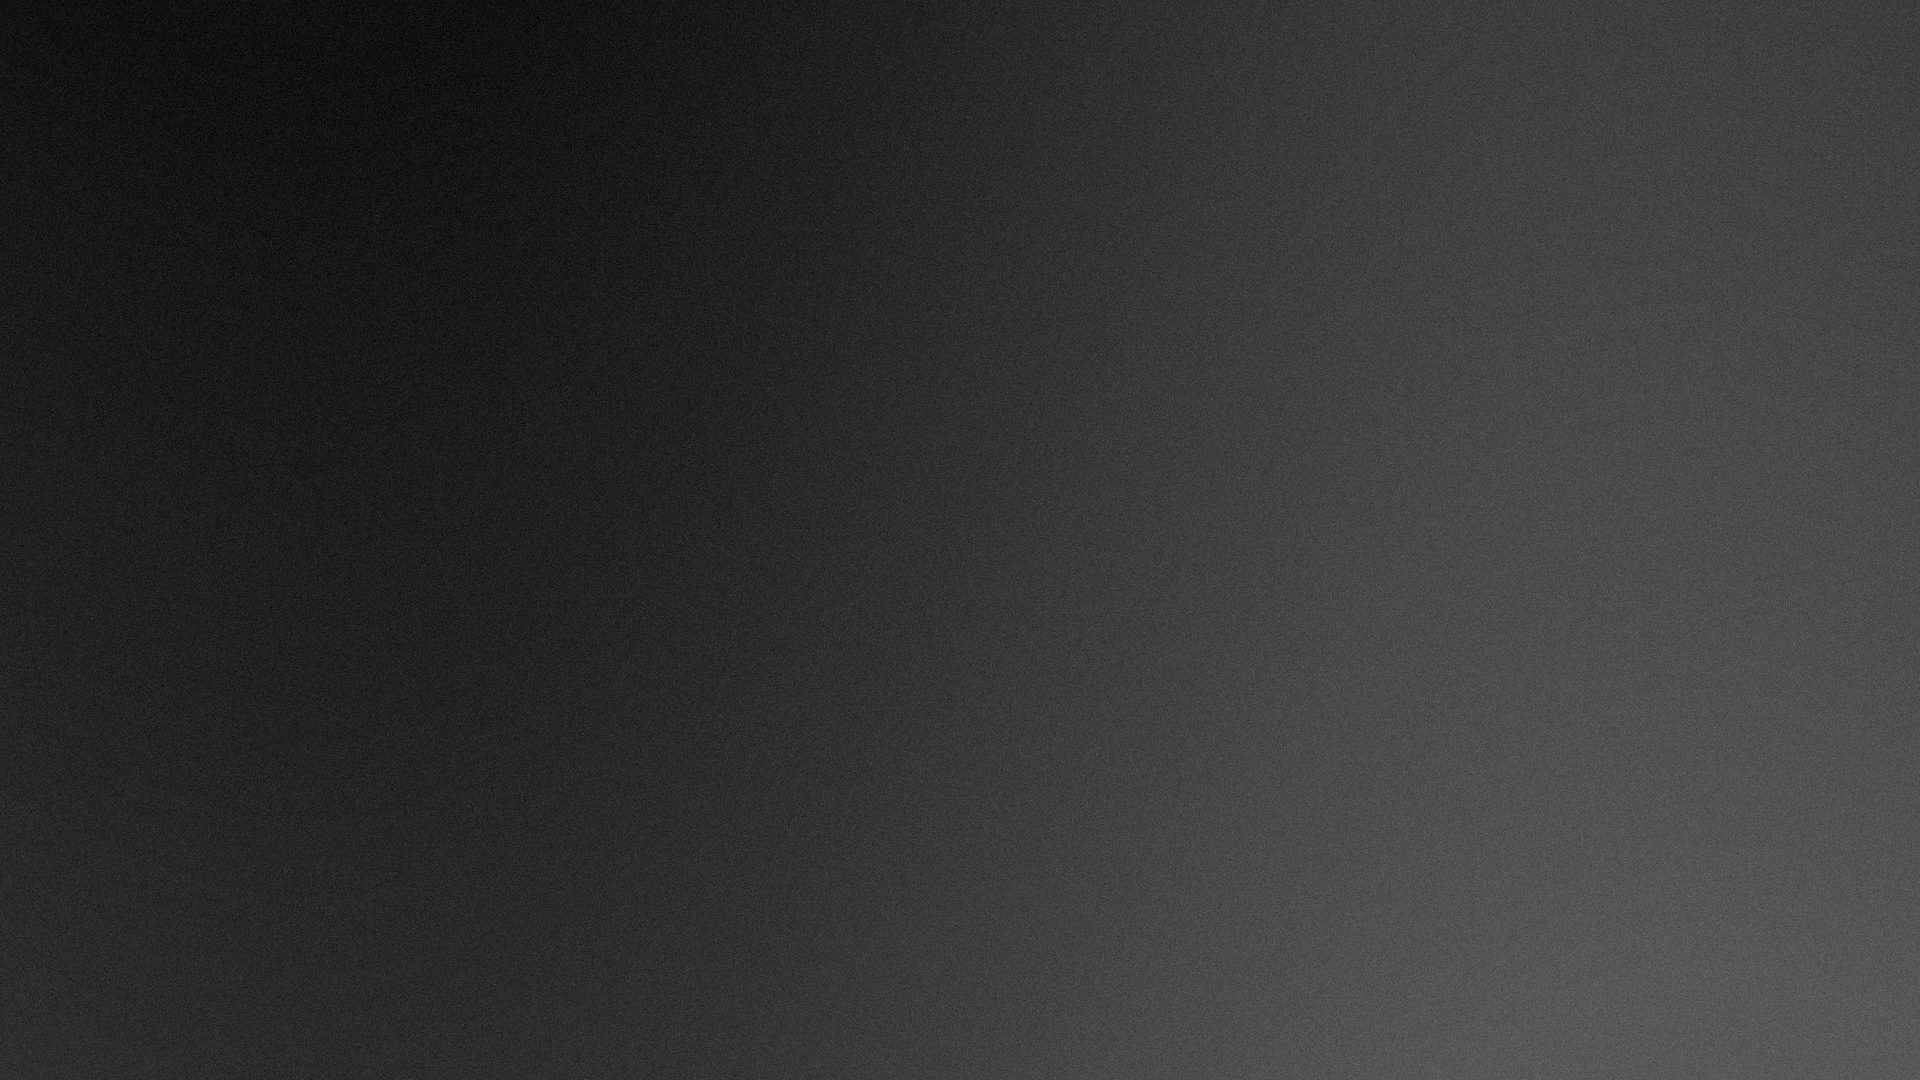
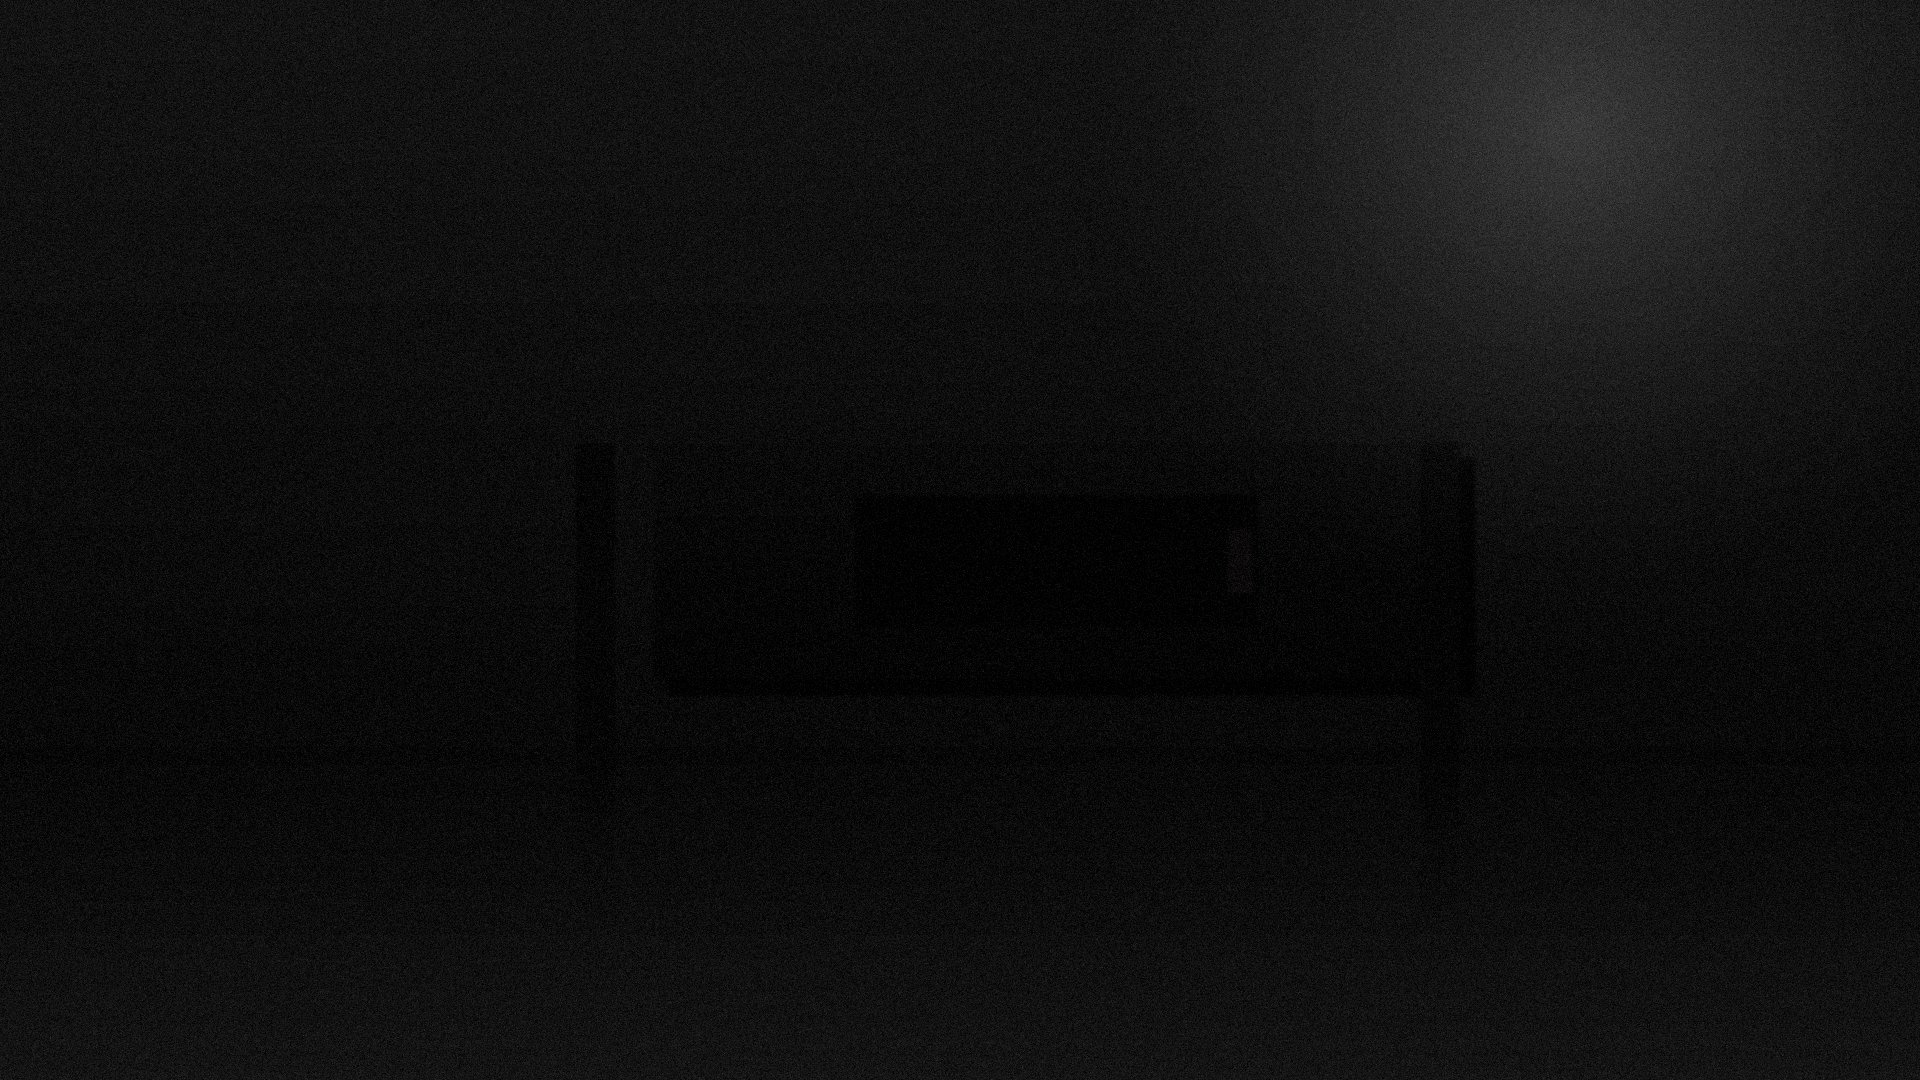
Add files via upload

diff --git a/index.html b/index.html
@@ -153,20 +153,52 @@
     }
     .hero-bg {
       position: absolute;
-      inset: 0;
+      inset: -5%;
       z-index: 1;
+      overflow: hidden;
     }
     .hero-bg img {
-      width: 100%; height: 120%;
+      width: 110%; height: 110%;
       object-fit: cover;
       object-position: center;
-      filter: grayscale(1) contrast(1.05) brightness(0.7);
+      filter: grayscale(1) contrast(1.08) brightness(0.68);
+      /* Efect Ken Burns — zoom + pan lent continuu, dă senzația de video */
+      animation: kenBurns 24s ease-in-out infinite alternate;
+      transform-origin: 70% 30%;
+    }
+    @keyframes kenBurns {
+      0%   { transform: scale(1.0)  translate(0, 0); }
+      100% { transform: scale(1.18) translate(-2%, -1.5%); }
     }
     .hero-bg::after {
       content: '';
       position: absolute;
       inset: 0;
-      background: linear-gradient(to bottom, rgba(12,12,13,0.5) 0%, transparent 30%, transparent 60%, rgba(12,12,13,0.85) 100%);
+      background: linear-gradient(to bottom, rgba(12,12,13,0.45) 0%, transparent 28%, transparent 55%, rgba(12,12,13,0.9) 100%);
+      z-index: 2;
+    }
+    /* Lumină care pulsează subtil — viață atmosferică */
+    .hero-light {
+      position: absolute;
+      top: 0; right: 0;
+      width: 60%; height: 70%;
+      z-index: 1;
+      background: radial-gradient(ellipse at 80% 15%, rgba(255,250,240,0.18) 0%, transparent 55%);
+      animation: lightPulse 8s ease-in-out infinite alternate;
+      pointer-events: none;
+    }
+    @keyframes lightPulse {
+      0%   { opacity: 0.6; }
+      100% { opacity: 1; }
+    }
+    /* Vignette pentru profunzime cinematică */
+    .hero::before {
+      content: '';
+      position: absolute;
+      inset: 0;
+      z-index: 3;
+      pointer-events: none;
+      box-shadow: inset 0 0 200px 60px rgba(0,0,0,0.6);
     }
     .hero-content {
       position: relative;
@@ -190,6 +222,19 @@
       font-style: italic;
       color: var(--gri-deschis);
     }
+    /* Reveal cinematic — fiecare linie urcă din jos */
+    .hero-title .line-wrap {
+      display: block;
+      overflow: hidden;
+    }
+    .hero-title .line-wrap span {
+      display: block;
+      transform: translateY(110%);
+      transition: transform 1.4s cubic-bezier(0.16, 1, 0.3, 1);
+    }
+    .hero-title.in .line-wrap:nth-child(1) span { transition-delay: 0.3s; transform: translateY(0); }
+    .hero-title.in .line-wrap:nth-child(2) span { transition-delay: 0.45s; transform: translateY(0); }
+    .hero-title.in .line-wrap:nth-child(3) span { transition-delay: 0.6s; transform: translateY(0); }
     .hero-meta {
       text-align: right;
       font-size: 11px;
@@ -662,9 +707,14 @@
     <div class="hero-bg" id="heroBg">
       <img src="images/scene-hero.jpg" alt="Forge Studio"/>
     </div>
+    <div class="hero-light"></div>
     <div class="hero-tag reveal">Studio de Marketing & Producție — Est. 2026</div>
     <div class="hero-content">
-      <h1 class="hero-title" id="heroTitle">Construim<br/>brand-uri care<br/><em>rămân.</em></h1>
+      <h1 class="hero-title" id="heroTitle">
+        <span class="line-wrap"><span>Construim</span></span>
+        <span class="line-wrap"><span>brand-uri care</span></span>
+        <span class="line-wrap"><span><em>rămân.</em></span></span>
+      </h1>
       <div class="hero-meta reveal reveal-delay-2">
         Web · Branding<br/>
         Performance Ads<br/>
@@ -910,12 +960,24 @@
     }, { threshold: 0.15, rootMargin: '0px 0px -50px 0px' });
     document.querySelectorAll('.reveal, .char-reveal').forEach(el => revealObserver.observe(el));
 
-    // ===== Hero parallax (background moves slower) =====
+    // ===== Hero title reveal la încărcare =====
+    window.addEventListener('load', () => {
+      setTimeout(() => {
+        document.getElementById('heroTitle').classList.add('in');
+      }, 200);
+    });
+
+    // ===== Hero parallax (background moves slower + se estompează) =====
     const heroBg = document.getElementById('heroBg');
+    const heroContent = document.querySelector('.hero-content');
     window.addEventListener('scroll', () => {
       const scrolled = window.scrollY;
       if (scrolled < window.innerHeight) {
-        heroBg.style.transform = `translateY(${scrolled * 0.4}px)`;
+        // Background se mișcă lent (parallax adânc)
+        heroBg.style.transform = `translateY(${scrolled * 0.5}px)`;
+        // Textul se mișcă mai repede și se estompează (iese din scenă)
+        heroContent.style.transform = `translateY(${scrolled * -0.15}px)`;
+        heroContent.style.opacity = 1 - (scrolled / (window.innerHeight * 0.7));
       }
     });
 
